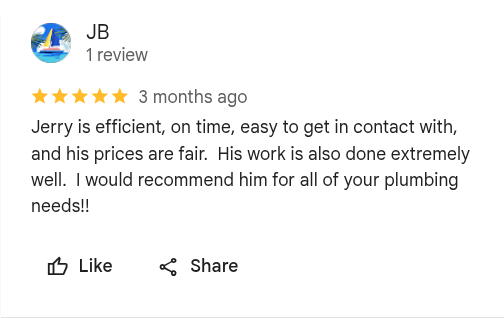
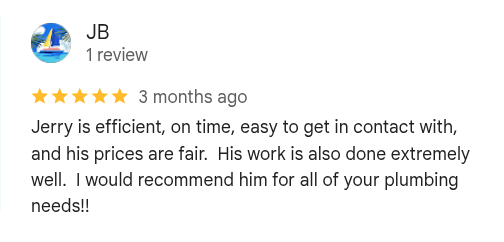
Crop the JB review after the last line of text.
Hannah's image also loses the leftover price-assessment sliver. The other three screenshots already end on the review text.

diff --git a/src/data/review-shots.ts b/src/data/review-shots.ts
@@ -22,7 +22,7 @@ export const reviewShots = [
   {
     id: "jb",
     width: 504,
-    height: 318,
+    height: 242,
     alt: 'Google review by JB, 5 stars: "Jerry is efficient, on time, easy to get in contact with, and his prices are fair. His work is also done extremely well. I would recommend him for all of your plumbing needs!!"',
   },
   {
